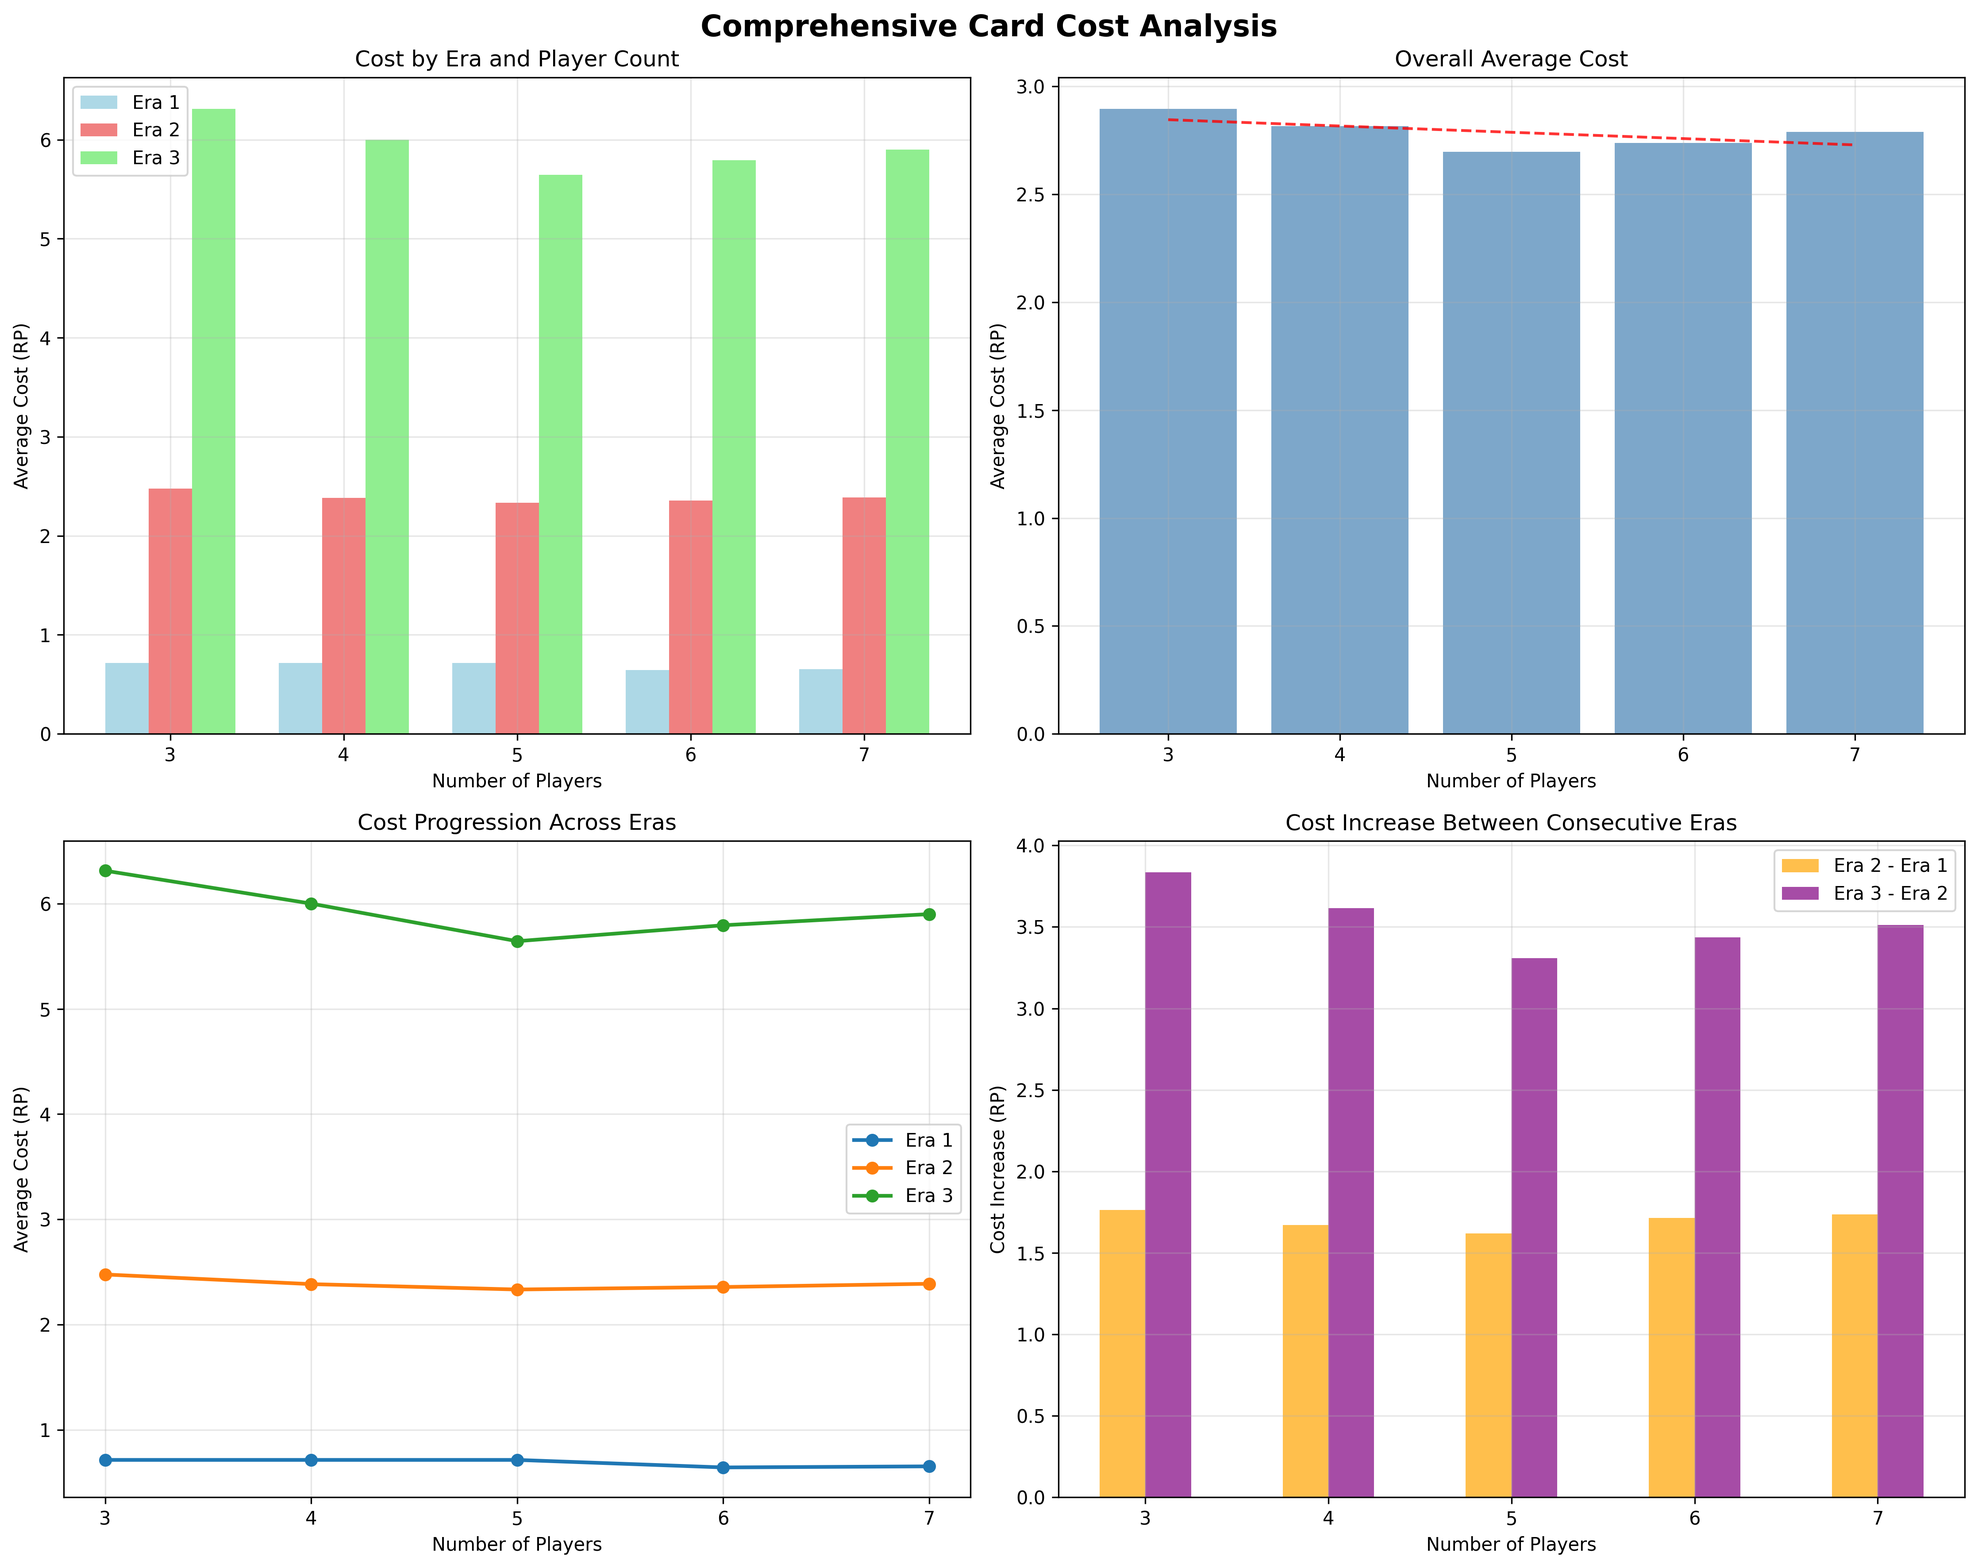
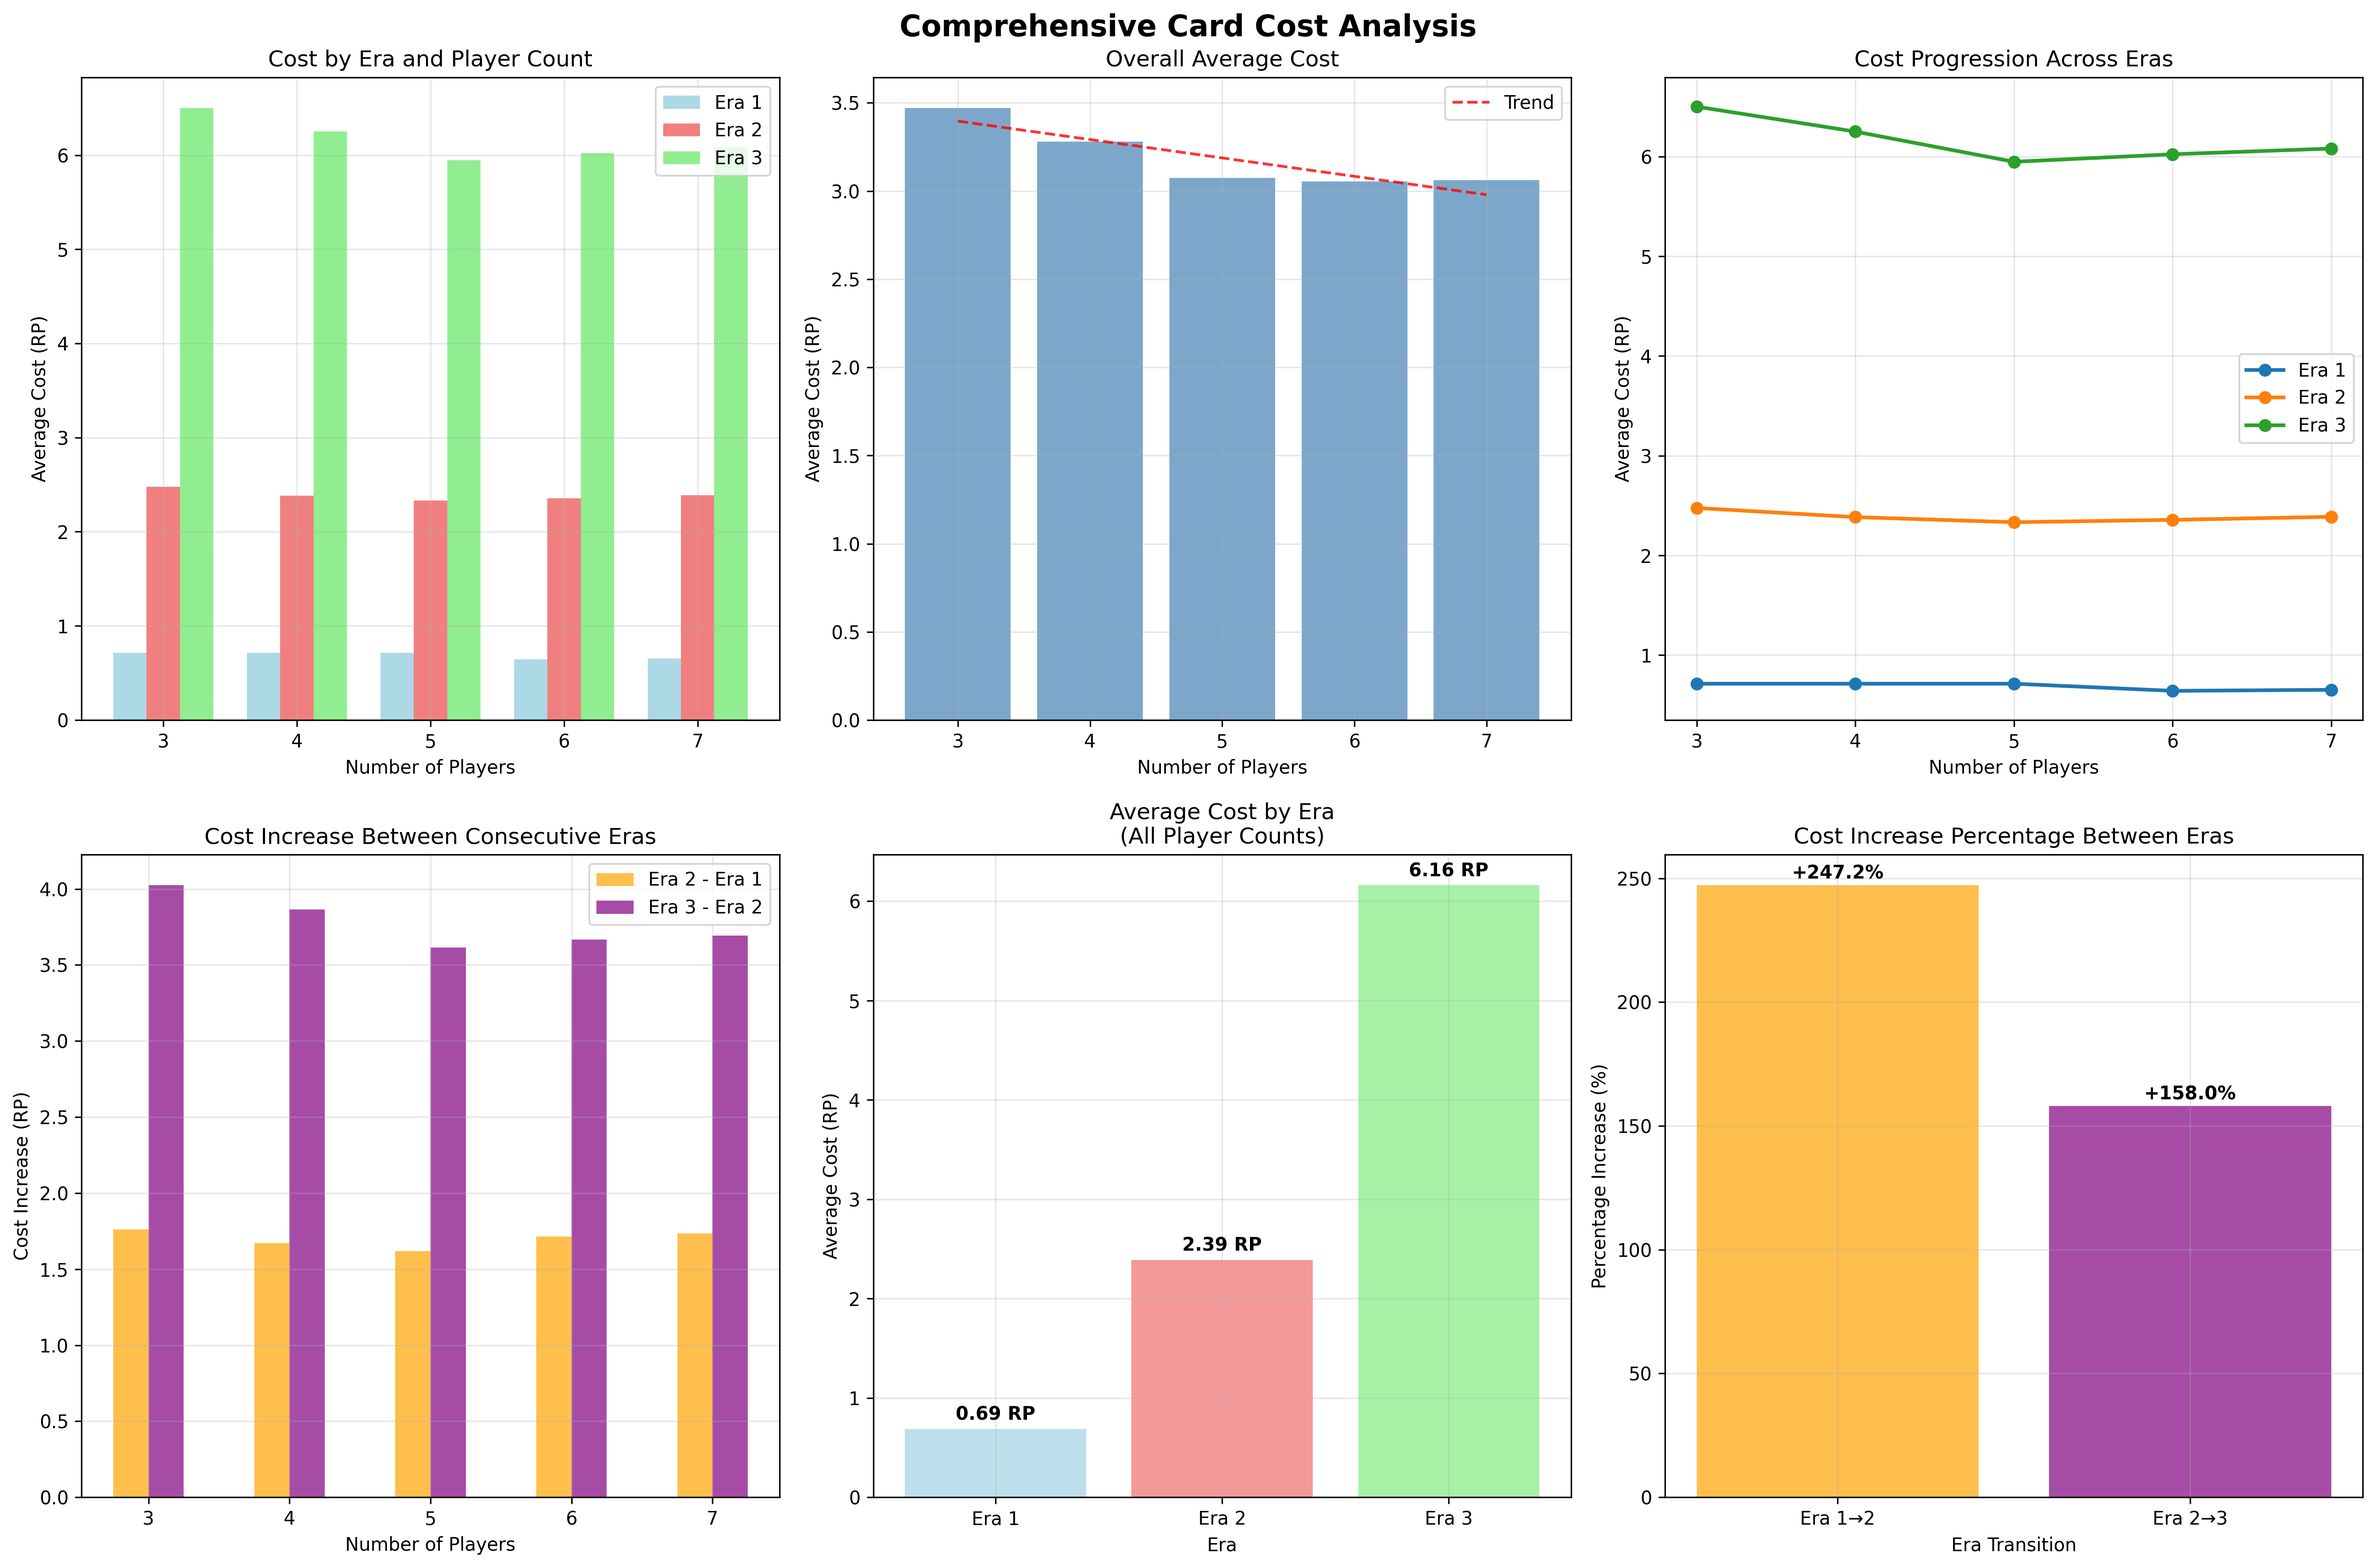
add guilds to card cost calculations

diff --git a/src/stats/card_cost.py b/src/stats/card_cost.py
@@ -1,6 +1,6 @@
 import matplotlib.pyplot as plt
 import numpy as np
-from load.cards import load_cards
+from load.cards import load_cards, load_guild_cards
 from engine.card import Cost
 from engine.game_resource import resource_type, ResourceType
 
@@ -31,6 +31,8 @@ def collect_cost_data():
         
         for era in eras:
             cards = load_cards(player_number, era)
+            if era == 3:
+                cards += load_guild_cards()
             total_cost = 0
             for card in cards:
                 cost_value = _get_rp(card.cost)
@@ -56,12 +58,18 @@ def collect_cost_data():
             overall_avg_data.append(0)
             total_cards_per_player.append(0)
     
+    # Calculate era averages across all player counts
+    era_averages = {}
+    for era in eras:
+        era_averages[era] = np.mean(era_data[era])
+    
     return {
         'player_counts': player_counts,
         'eras': eras,
         'era_data': era_data,
         'overall_avg_data': overall_avg_data,
-        'total_cards_per_player': total_cards_per_player
+        'total_cards_per_player': total_cards_per_player,
+        'era_averages': era_averages
     }
 
 def create_era_comparison_chart(data):
@@ -100,12 +108,6 @@ def create_era_comparison_chart(data):
     add_value_labels(bars1)
     add_value_labels(bars2)
     add_value_labels(bars3)
-    
-    # Add some analysis text
-    max_cost = max(max(era_data[1]), max(era_data[2]), max(era_data[3]))
-    ax.text(0.02, 0.98, f'Era Progression: Cost increases across eras',
-            transform=ax.transAxes, fontsize=10, verticalalignment='top',
-            bbox=dict(boxstyle='round', facecolor='wheat', alpha=0.5))
     
     plt.tight_layout()
     return fig
@@ -150,15 +152,59 @@ def create_overall_average_chart(data):
     plt.tight_layout()
     return fig
 
+def create_era_average_chart(data):
+    """Create bar chart showing average cost per era (averaged across all player counts)"""
+    fig, ax = plt.subplots(figsize=(10, 6))
+    
+    eras = data['eras']
+    era_averages = data['era_averages']
+    
+    # Create bars
+    colors = ['lightblue', 'lightcoral', 'lightgreen']
+    bars = ax.bar(eras, [era_averages[era] for era in eras], color=colors, alpha=0.8, width=0.6)
+    
+    # Customize the chart
+    ax.set_xlabel('Era', fontsize=12, fontweight='bold')
+    ax.set_ylabel('Average Resource Points per Card', fontsize=12, fontweight='bold')
+    ax.set_title('Average Card Cost by Era\n(Averaged Across All Player Counts)', 
+                 fontsize=14, fontweight='bold')
+    ax.set_xticks(eras)
+    ax.set_xticklabels([f'Era {era}' for era in eras])
+    ax.grid(True, alpha=0.3, axis='y')
+    
+    # Add value labels on bars
+    for bar, era in zip(bars, eras):
+        height = bar.get_height()
+        ax.text(bar.get_x() + bar.get_width()/2., height + 0.05,
+               f'{height:.2f} RP', ha='center', va='bottom', fontweight='bold', fontsize=11)
+    
+    # Add percentage increase annotations
+    for i in range(1, len(eras)):
+        prev_avg = era_averages[eras[i-1]]
+        curr_avg = era_averages[eras[i]]
+        increase_pct = ((curr_avg - prev_avg) / prev_avg) * 100
+        ax.annotate(f'+{increase_pct:.1f}%', 
+                   xy=(eras[i], curr_avg), 
+                   xytext=(eras[i], curr_avg + 0.1),
+                   ha='center', va='bottom', fontsize=10, fontweight='bold',
+                   arrowprops=dict(arrowstyle='->', color='red', lw=1.5))
+    
+    plt.tight_layout()
+    return fig
+
 def create_combined_analysis_plot(data):
     """Create a comprehensive analysis plot with multiple subplots"""
-    fig, ((ax1, ax2), (ax3, ax4)) = plt.subplots(2, 2, figsize=(15, 12))
+    fig, axes = plt.subplots(2, 3, figsize=(18, 12))
     fig.suptitle('Comprehensive Card Cost Analysis', fontsize=16, fontweight='bold')
+    
+    # Flatten the axes array for easier indexing
+    ax1, ax2, ax3, ax4, ax5, ax6 = axes.flatten()
     
     player_counts = data['player_counts']
     eras = data['eras']
     era_data = data['era_data']
     overall_avg = data['overall_avg_data']
+    era_averages = data['era_averages']
     
     # Subplot 1: Era comparison (similar to first chart)
     x = np.arange(len(player_counts))
@@ -187,7 +233,8 @@ def create_combined_analysis_plot(data):
     # Add trend line to overall average
     z = np.polyfit(player_counts, overall_avg, 1)
     p = np.poly1d(z)
-    ax2.plot(player_counts, p(player_counts), "r--", alpha=0.8)
+    ax2.plot(player_counts, p(player_counts), "r--", alpha=0.8, label='Trend')
+    ax2.legend()
     
     # Subplot 3: Cost progression across eras (line chart)
     for era in eras:
@@ -220,6 +267,47 @@ def create_combined_analysis_plot(data):
     ax4.legend()
     ax4.grid(True, alpha=0.3)
     
+    # Subplot 5: Average cost per era (NEW - averaged across player counts)
+    colors = ['lightblue', 'lightcoral', 'lightgreen']
+    bars = ax5.bar(eras, [era_averages[era] for era in eras], color=colors, alpha=0.8)
+    ax5.set_xlabel('Era')
+    ax5.set_ylabel('Average Cost (RP)')
+    ax5.set_title('Average Cost by Era\n(All Player Counts)')
+    ax5.set_xticks(eras)
+    ax5.set_xticklabels([f'Era {era}' for era in eras])
+    ax5.grid(True, alpha=0.3)
+    
+    # Add value labels on bars
+    for bar, era in zip(bars, eras):
+        height = bar.get_height()
+        ax5.text(bar.get_x() + bar.get_width()/2., height + 0.05,
+                f'{height:.2f} RP', ha='center', va='bottom', fontweight='bold')
+    
+    # Subplot 6: Percentage increase between eras
+    increases = []
+    for i in range(1, len(eras)):
+        prev_avg = era_averages[eras[i-1]]
+        curr_avg = era_averages[eras[i]]
+        increase_pct = ((curr_avg - prev_avg) / prev_avg) * 100
+        increases.append(increase_pct)
+    
+    ax6.bar([1, 2], increases, color=['orange', 'purple'], alpha=0.7)
+    ax6.set_xlabel('Era Transition')
+    ax6.set_ylabel('Percentage Increase (%)')
+    ax6.set_title('Cost Increase Percentage Between Eras')
+    ax6.set_xticks([1, 2])
+    ax6.set_xticklabels(['Era 1→2', 'Era 2→3'])
+    ax6.grid(True, alpha=0.3)
+    
+    # Add value labels on percentage bars
+    for i, increase in enumerate(increases):
+        ax6.text(i+1, increase + 1, f'+{increase:.1f}%', 
+                ha='center', va='bottom', fontweight='bold')
+    
+    # Hide the sixth subplot if we don't have data for it
+    if len(increases) == 0:
+        ax6.set_visible(False)
+    
     plt.tight_layout()
     return fig
 
@@ -230,7 +318,8 @@ def main():
     # Create individual charts
     fig1 = create_era_comparison_chart(data)
     fig2 = create_overall_average_chart(data)
-    fig3 = create_combined_analysis_plot(data)
+    fig3 = create_era_average_chart(data)  # New chart
+    fig4 = create_combined_analysis_plot(data)
     
     # Display the plots
     # plt.show()
@@ -239,7 +328,8 @@ def main():
     save_dir = "src/stats/assets/card_cost/"
     fig1.savefig(save_dir + 'era_cost_comparison.png', dpi=300, bbox_inches='tight')
     fig2.savefig(save_dir + 'overall_cost_average.png', dpi=300, bbox_inches='tight')
-    fig3.savefig(save_dir + 'comprehensive_cost_analysis.png', dpi=300, bbox_inches='tight')
+    fig3.savefig(save_dir + 'era_average_cost.png', dpi=300, bbox_inches='tight')
+    fig4.savefig(save_dir + 'comprehensive_cost_analysis.png', dpi=300, bbox_inches='tight')
     
     # Print summary statistics
     print("\n=== Card Cost Analysis Summary ===")
@@ -250,6 +340,17 @@ def main():
         print(f"  Era 3 average cost: {data['era_data'][3][i]:.2f} RP")
         print(f"  Overall average cost: {data['overall_avg_data'][i]:.2f} RP")
         print(f"  Total cards: {data['total_cards_per_player'][i]}")
+    
+    print("\n=== Era Averages (Across All Player Counts) ===")
+    for era in data['eras']:
+        print(f"  Era {era}: {data['era_averages'][era]:.2f} RP")
+    
+    # Calculate percentage increases between eras
+    for i in range(1, len(data['eras'])):
+        prev_era = data['eras'][i-1]
+        curr_era = data['eras'][i]
+        increase = ((data['era_averages'][curr_era] - data['era_averages'][prev_era]) / data['era_averages'][prev_era]) * 100
+        print(f"  Era {prev_era} → Era {curr_era}: +{increase:.1f}% increase")
 
 if __name__ == "__main__":
     main()

diff --git a/src/load/cards.py b/src/load/cards.py
@@ -13,6 +13,7 @@ from load.guild import load_guild
 
 # card info taken from : https://7-wonders.fandom.com/wiki/List_of_Cards#Overview
 CARD_REGISTRY_PATH = "./src/load/assets/cards.json"
+GUILD_CARD_REGISTRY_PATH = "./src/load/assets/guild_cards.json"
 ERA_REGISTRY_PATH = "./src/load/assets/era"
 
 def load_all_cards(player_number: int) -> list[Card]:
@@ -27,7 +28,6 @@ def load_cards(player_number: int, era: int) -> list[Card]:
     if not 3 <= player_number <= 7:
         raise ValueError("era value must be in [3,7]")
 
-
     with open(CARD_REGISTRY_PATH, "r", encoding="utf-8") as f:
         data = json.load(f)
 
@@ -36,7 +36,7 @@ def load_cards(player_number: int, era: int) -> list[Card]:
         card = _load_card(card)
         card_registry[card.name] = card
 
-    with open(_get_era_resitry_path(era), "r", encoding="utf-8") as f:
+    with open(_get_era_registry_path(era), "r", encoding="utf-8") as f:
         data = json.load(f)
     
     cards: list[Card] = []
@@ -47,7 +47,17 @@ def load_cards(player_number: int, era: int) -> list[Card]:
             cards.append(copy.deepcopy(card_registry[name]))
     return cards
 
-def _get_era_resitry_path(era_number: int) -> str:
+def load_guild_cards() -> list[Card]:
+    with open(GUILD_CARD_REGISTRY_PATH, "r", encoding="utf-8") as f:
+        data = json.load(f)
+
+    guild_cards: list[Card] = []
+    for card in data["cards"]:
+        card = _load_card(card)
+        guild_cards.append(card)
+    return guild_cards
+
+def _get_era_registry_path(era_number: int) -> str:
     return f"{ERA_REGISTRY_PATH}/{era_number}.json"
 
 def _load_card(card_data) -> Card:

diff --git a/doc/results.md b/doc/results.md
@@ -21,6 +21,44 @@ The following graphs summarise the results:
 ![resource analisys](./../src/stats/assets/res_avail/resource_analysis_comprehensive.png)
 ![resource trend](./../src/stats/assets/res_avail/resource_trend_analysis.png)
 
+### Resource Availability Summary
+
+3 players:
+  Total Base Resources: 14
+  Total Rare Resources: 6
+  Base/Player: 4.67
+  Rare/Player: 2.00
+  Base:Rare Ratio: 2.33:1
+
+4 players:
+  Total Base Resources: 21
+  Total Rare Resources: 6
+  Base/Player: 5.25
+  Rare/Player: 1.50
+  Base:Rare Ratio: 3.50:1
+
+5 players:
+  Total Base Resources: 28
+  Total Rare Resources: 9
+  Base/Player: 5.60
+  Rare/Player: 1.80
+  Base:Rare Ratio: 3.11:1
+
+6 players:
+  Total Base Resources: 30
+  Total Rare Resources: 12
+  Base/Player: 5.00
+  Rare/Player: 2.00
+  Base:Rare Ratio: 2.50:1
+
+7 players:
+  Total Base Resources: 30
+  Total Rare Resources: 12
+  Base/Player: 4.29
+  Rare/Player: 1.71
+  Base:Rare Ratio: 2.50:1
+
+
 This means that the avarage ratio of base resources to rare resources in a game is:
 
 (2.33 + 3.50 + 3.11 + 2.50 + 2.50) / 5 = 13.94 / 5 = 2.79
@@ -53,3 +91,47 @@ This was explored in `card_cost.py`
 
 ![card cost](./../src/stats/assets/card_cost/comprehensive_cost_analysis.png)
 
+### Card Cost Analysis Summary
+
+3 players:
+  Era 1 average cost: 0.71 RP
+  Era 2 average cost: 2.48 RP
+  Era 3 average cost: 6.50 RP
+  Overall average cost: 3.47 RP
+  Total cards: 68
+
+4 players:
+  Era 1 average cost: 0.71 RP
+  Era 2 average cost: 2.38 RP
+  Era 3 average cost: 6.25 RP
+  Overall average cost: 3.28 RP
+  Total cards: 86
+
+5 players:
+  Era 1 average cost: 0.71 RP
+  Era 2 average cost: 2.33 RP
+  Era 3 average cost: 5.95 RP
+  Overall average cost: 3.07 RP
+  Total cards: 109
+
+6 players:
+  Era 1 average cost: 0.64 RP
+  Era 2 average cost: 2.36 RP
+  Era 3 average cost: 6.02 RP
+  Overall average cost: 3.05 RP
+  Total cards: 128
+
+7 players:
+  Era 1 average cost: 0.65 RP
+  Era 2 average cost: 2.39 RP
+  Era 3 average cost: 6.08 RP
+  Overall average cost: 3.06 RP
+  Total cards: 148
+
+### Era Averages (Across All Player Counts)
+
+  Era 1: 0.69 RP
+  Era 2: 2.39 RP
+  Era 3: 6.16 RP
+  Era 1 → Era 2: +247.2% increase
+  Era 2 → Era 3: +158.0% increase
